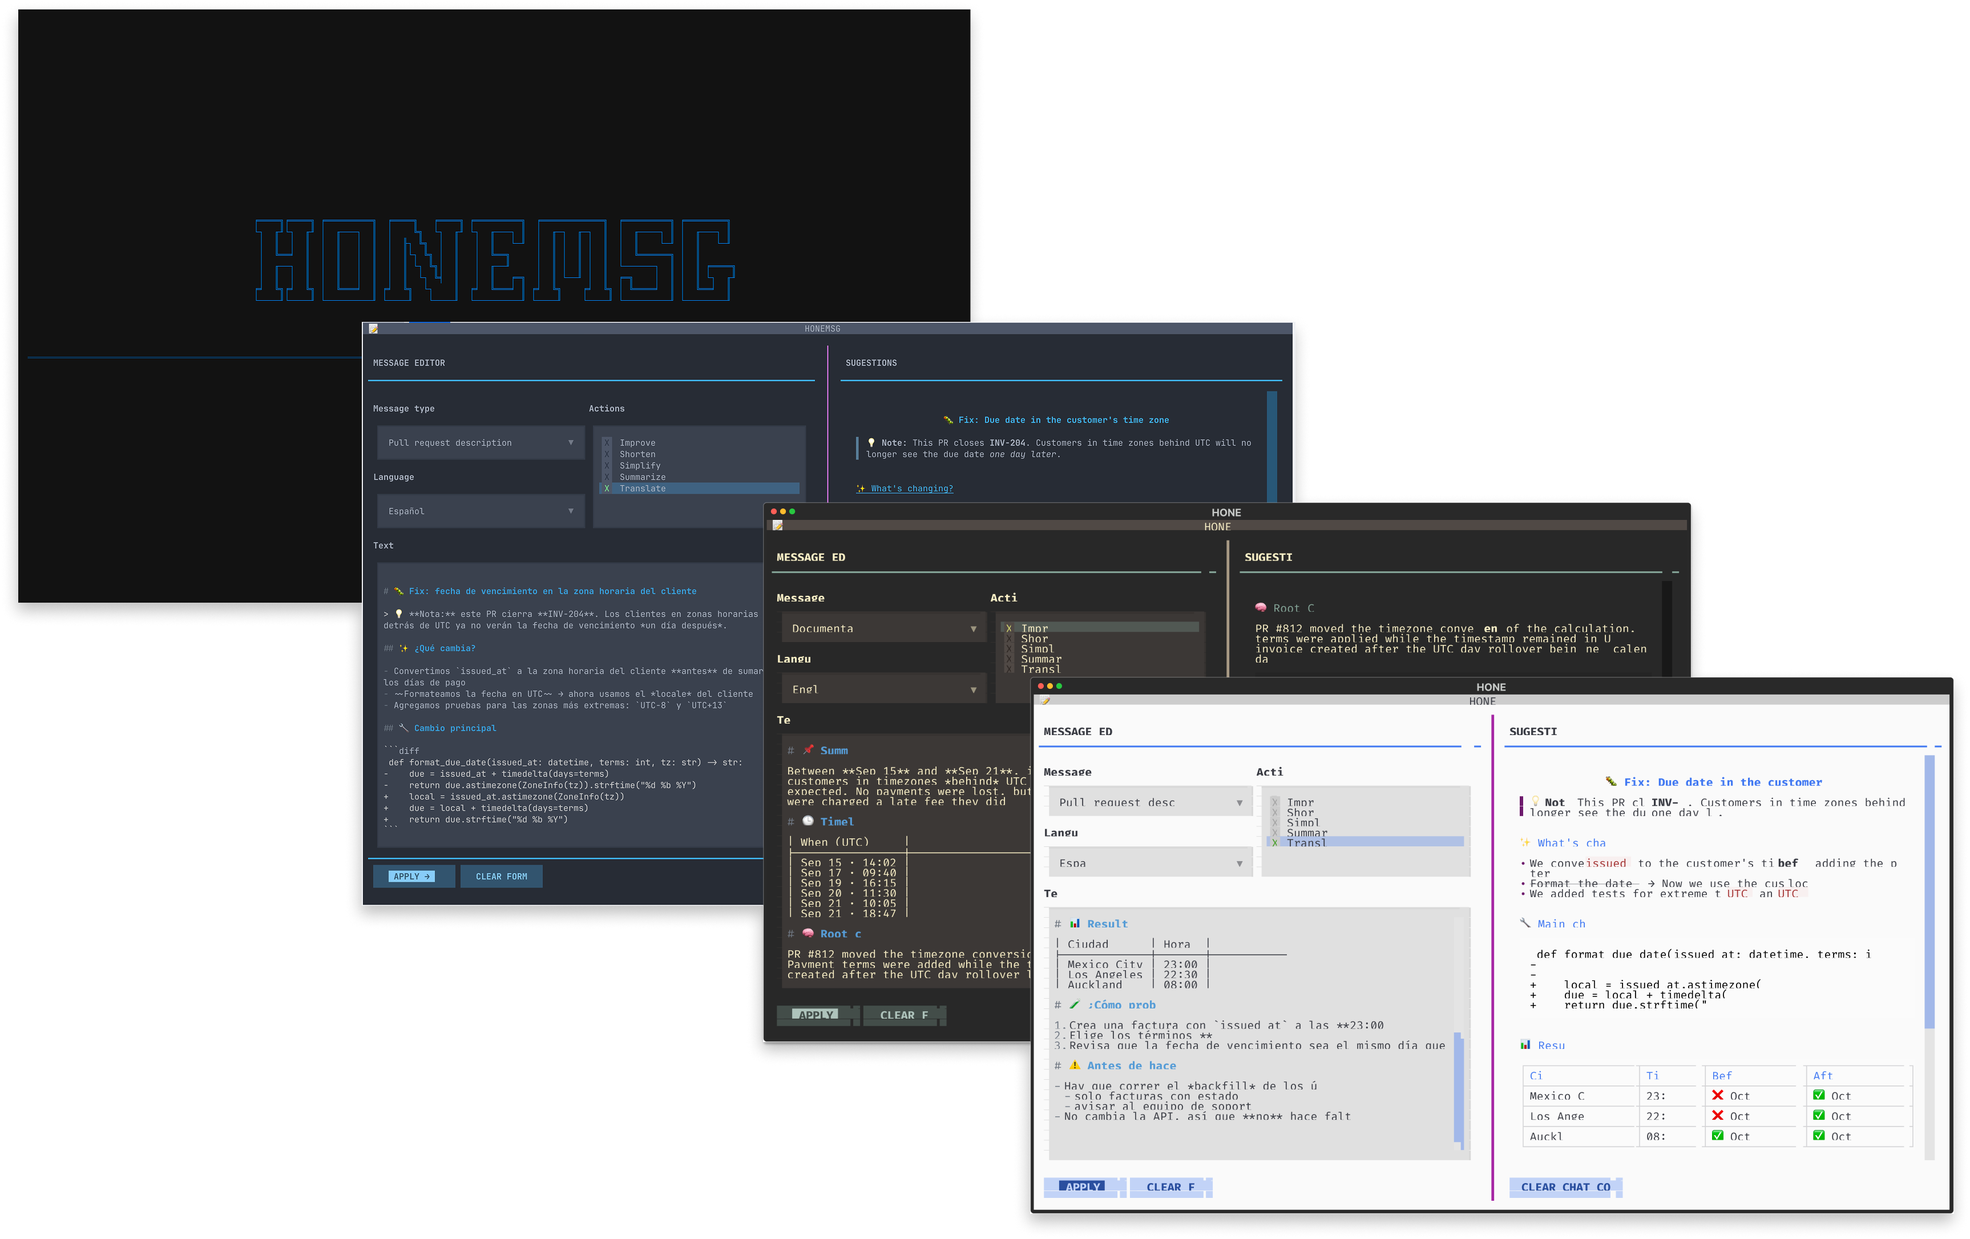
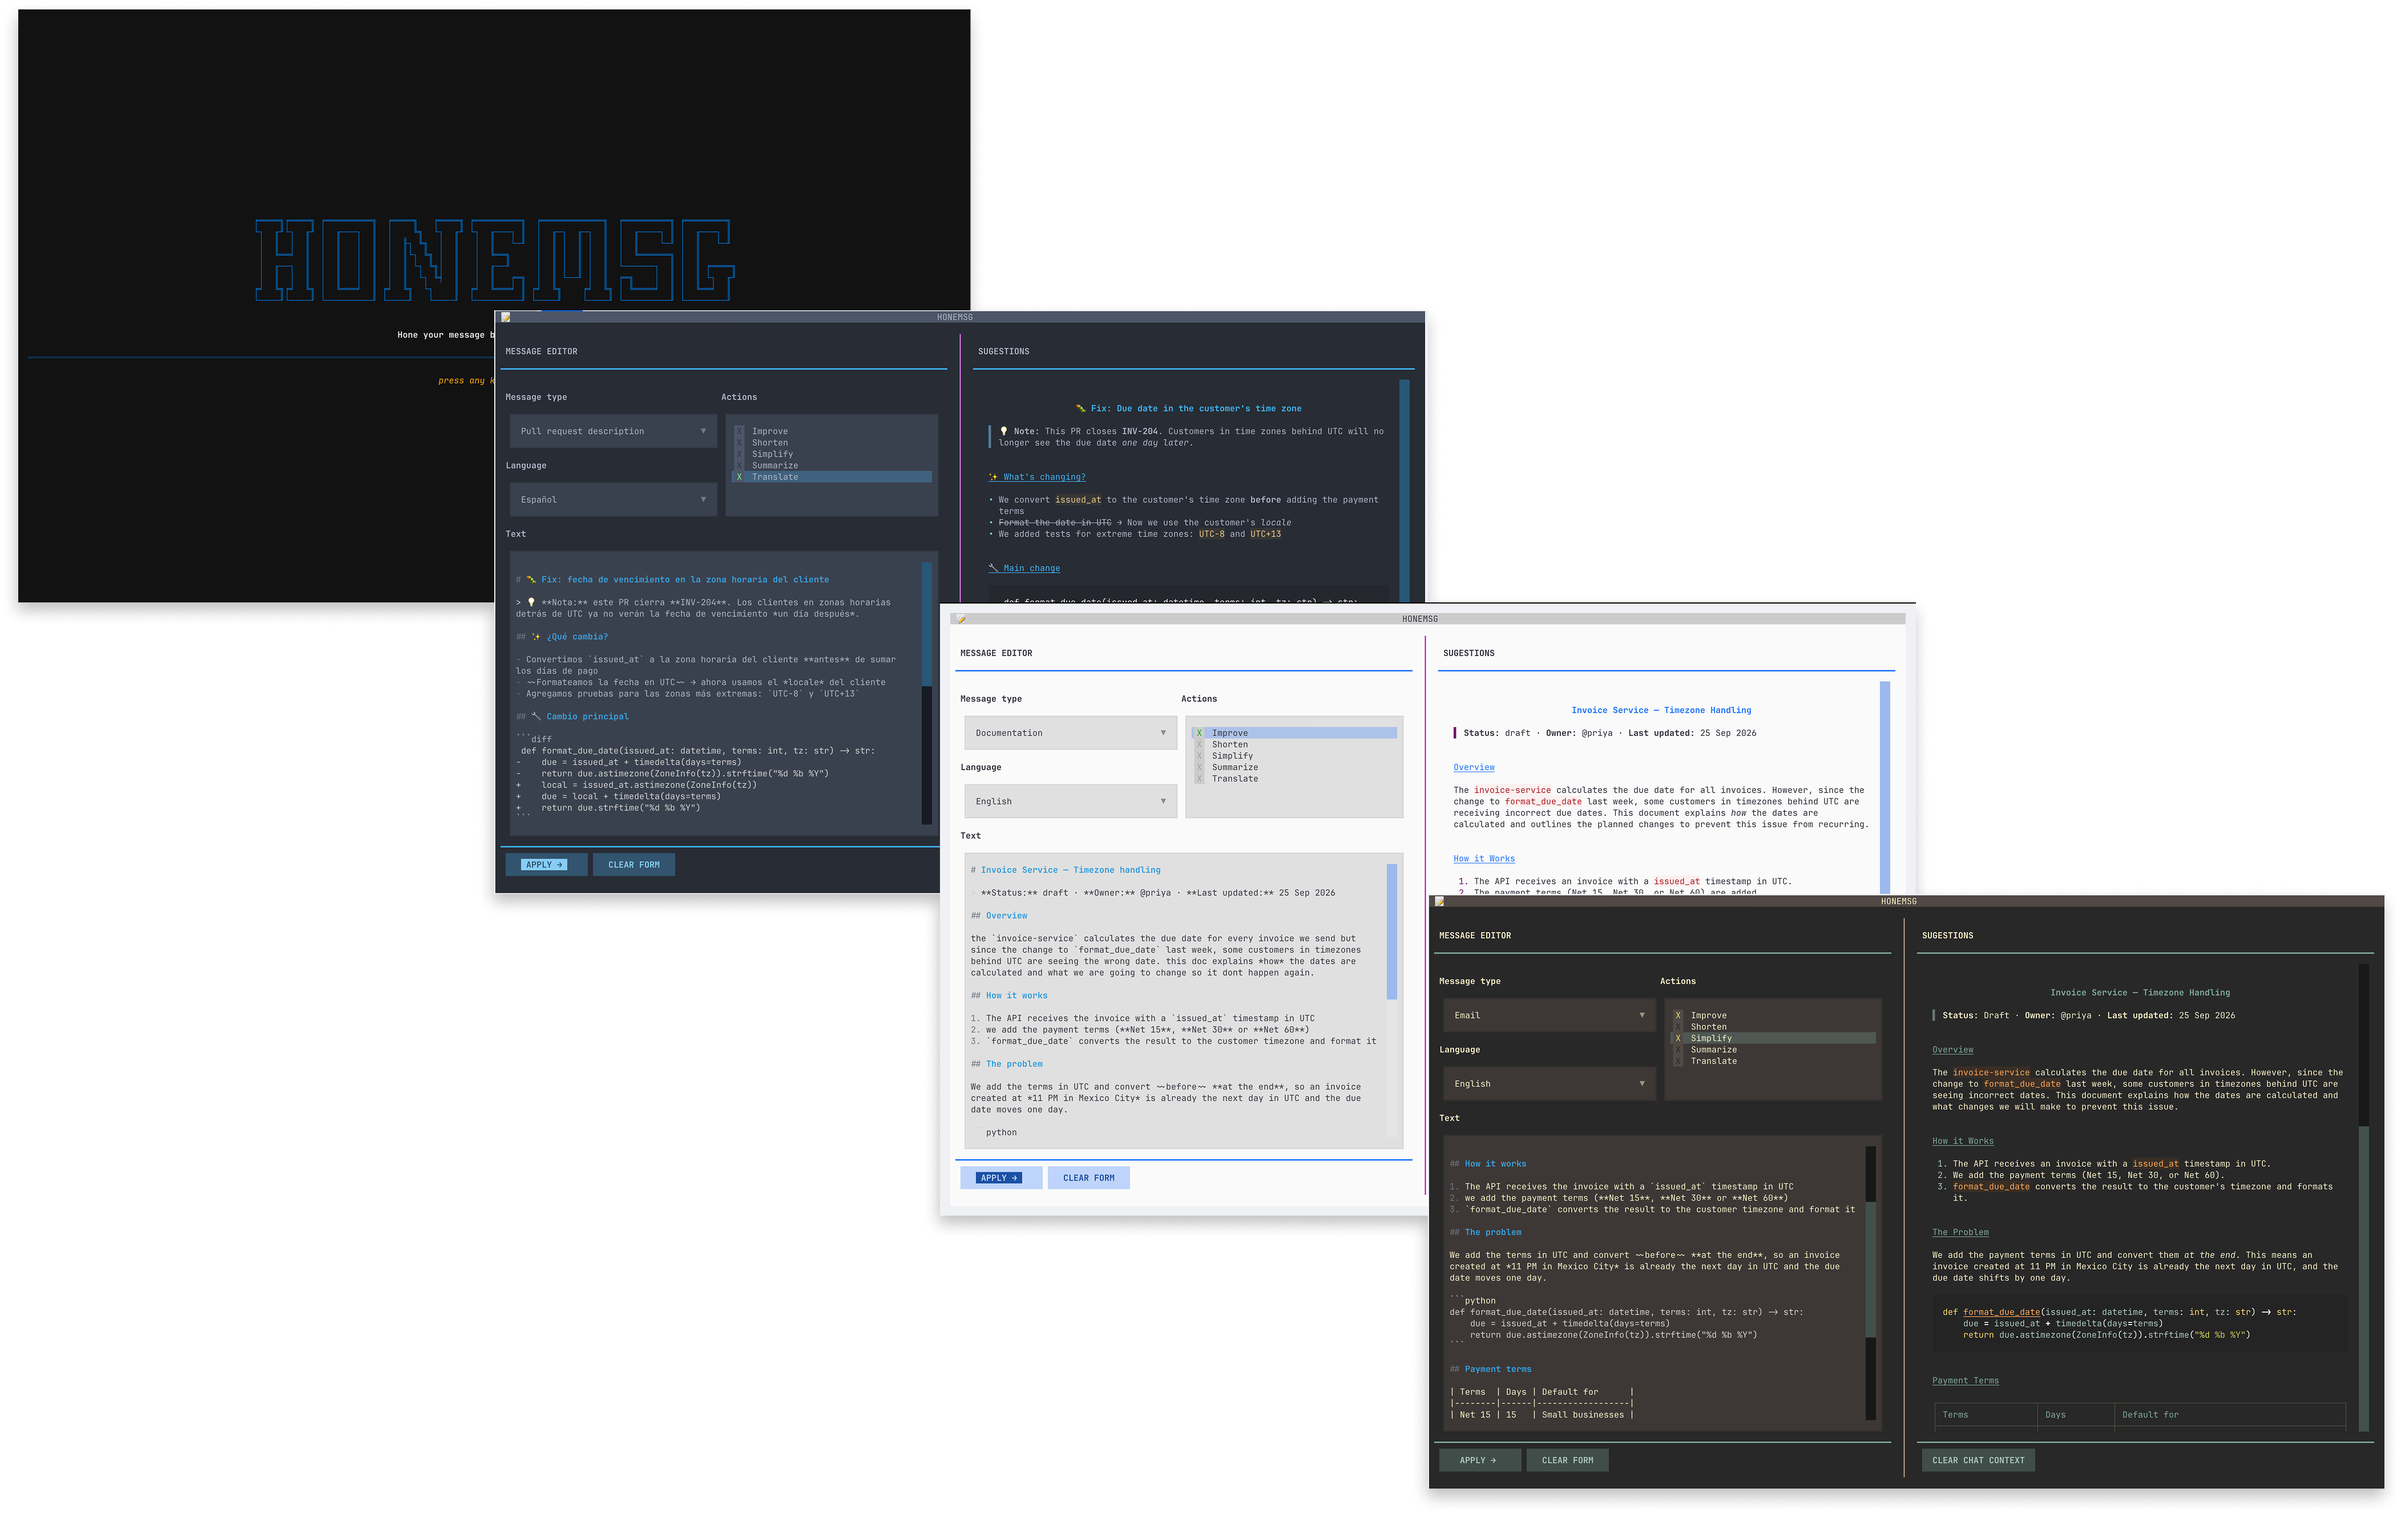
Content | Improve readme

diff --git a/README.md b/README.md
@@ -1,6 +1,6 @@
 ![Honemsg](assets/honemsg-logo.svg)
 
-![Honemsg en uso: pantalla de inicio, traducción de un PR y resumen de una investigación](assets/honemsg-cover.png)
+![Honemsg en uso: pantalla de inicio, traducción de un PR y mejora de documentación técnica](assets/honemsg-cover.png)
 
 ---
 
